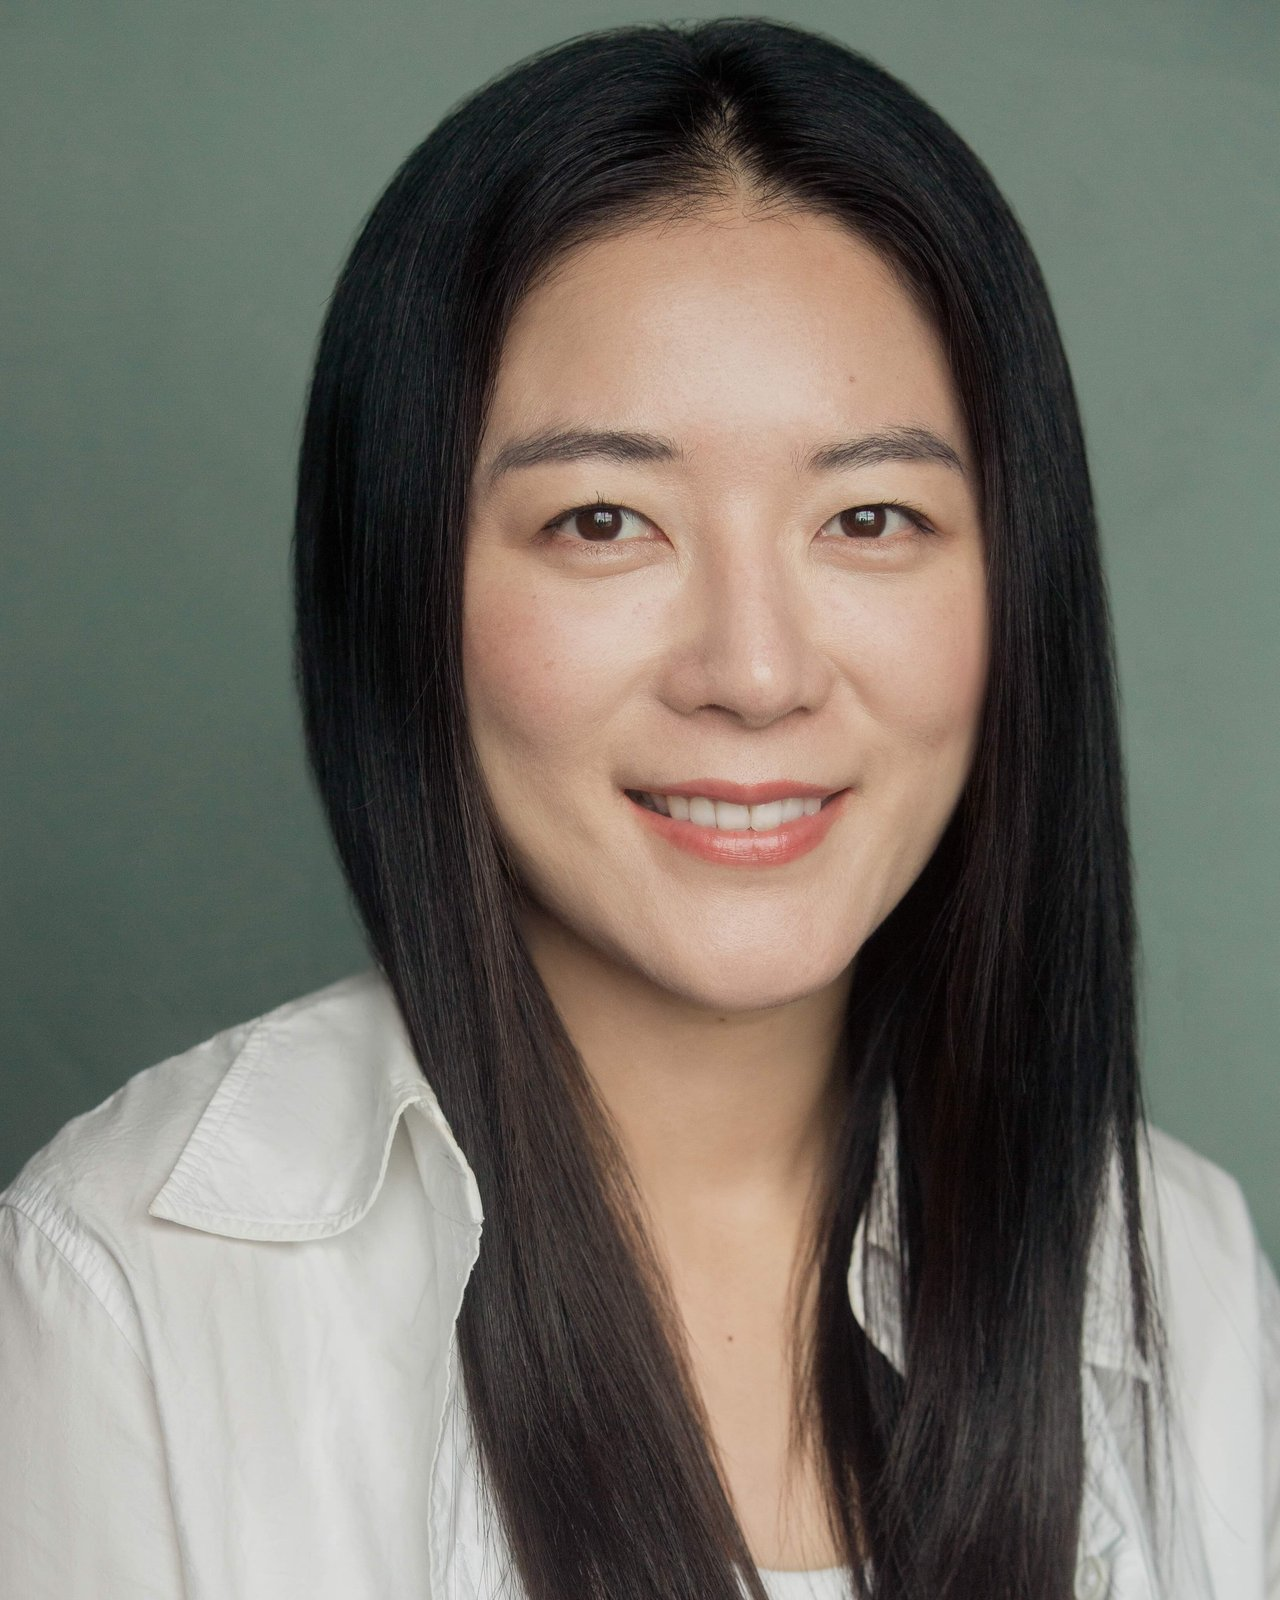
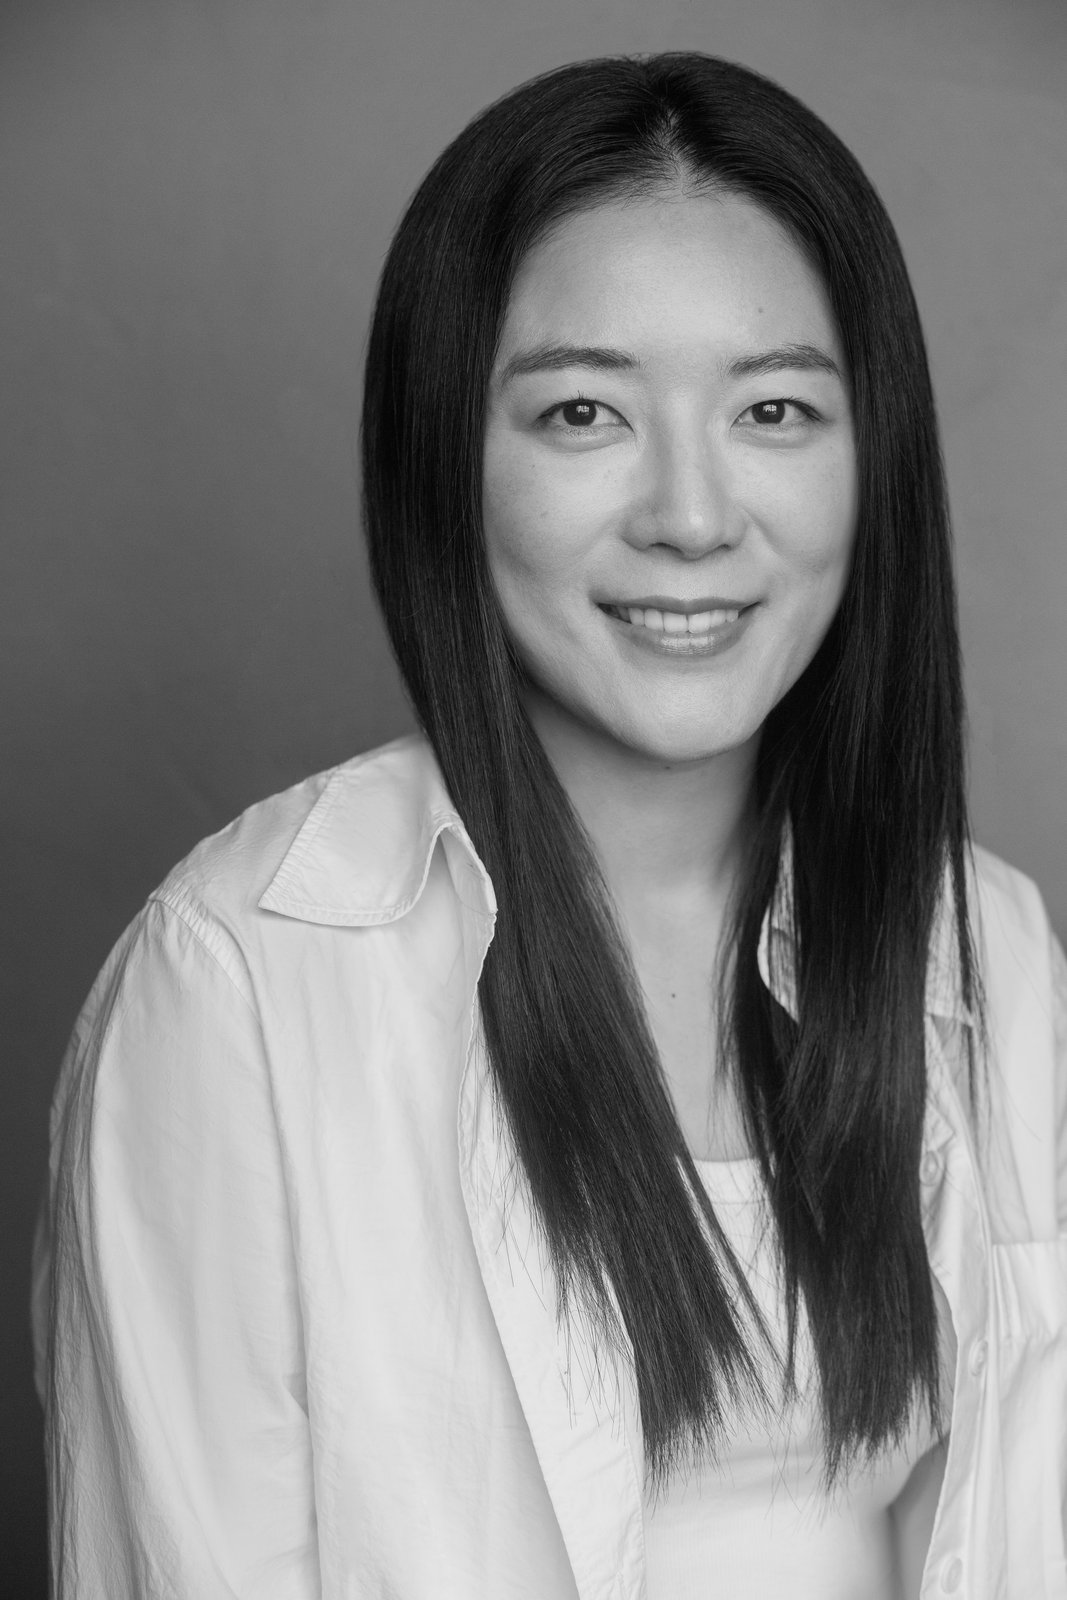
Switch portrait to black-and-white studio headshot
Replace the colour headshot with the professional B&W portrait on the
home and About pages (and site-wide og:image). Face sits ~54% from the
left, so desktop crops object-position to 84% (home strip) / 80% (About
hero) to centre the face by trimming the left shoulder; mobile shows the
full-width image top-aligned.

diff --git a/about.html b/about.html
@@ -75,7 +75,7 @@
             width: 100%;
             height: 100%;
             object-fit: cover;
-            object-position: center top;
+            object-position: 80% top;
             display: block;
         }
         .hero-content {

diff --git a/index.html b/index.html
@@ -72,7 +72,7 @@
             width: 100%;
             height: 100%;
             object-fit: cover;
-            object-position: 76% top;
+            object-position: 84% top;
             display: block;
         }
         .about-content {